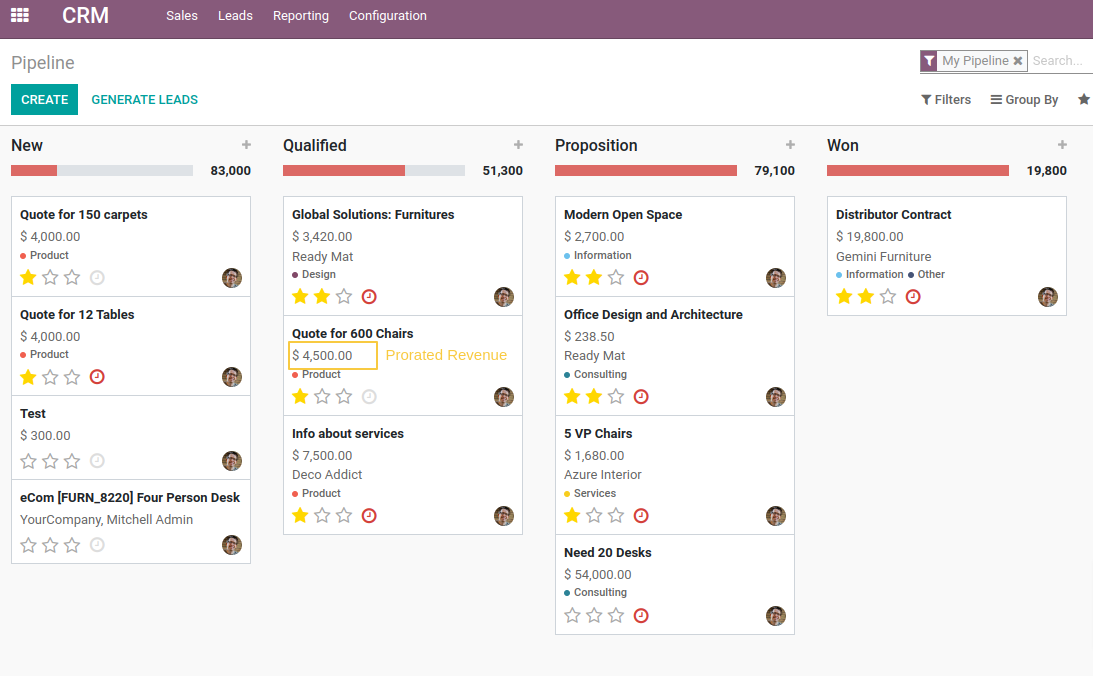
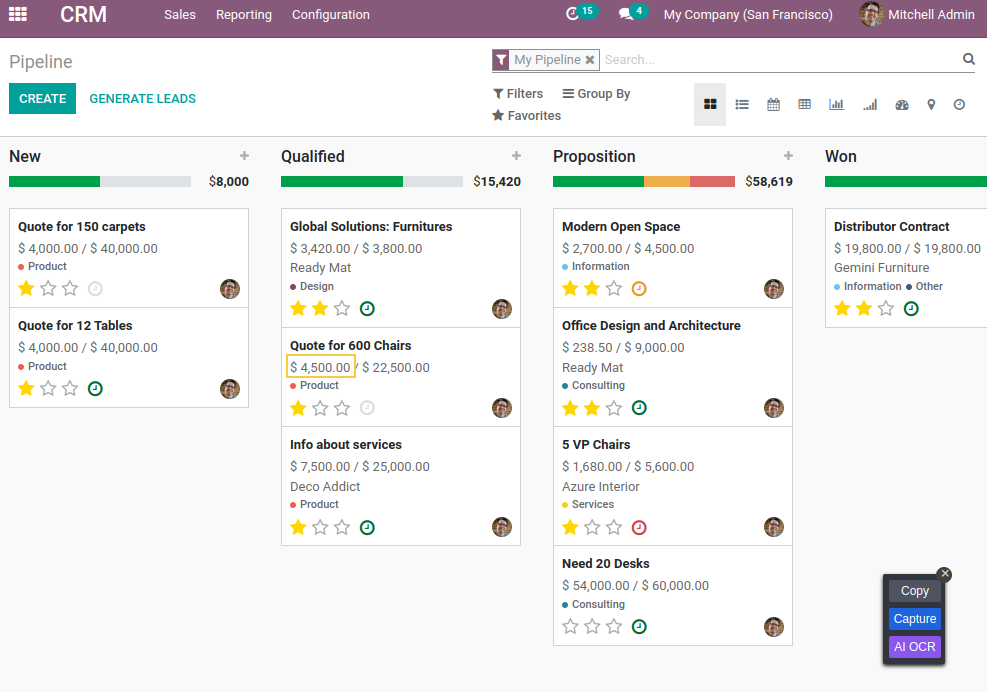
TA#62388 [IMP] crm_kanban_prorated_revenue (#360)

diff --git a/crm_kanban_prorated_revenue/__manifest__.py b/crm_kanban_prorated_revenue/__manifest__.py
@@ -4,7 +4,7 @@
 {
     "name": "CRM Kanban Prorated Revenue",
     "summary": "Display Proreted Revenue In CRM Kanban View",
-    "version": "14.0.1.0.0",
+    "version": "14.0.1.0.1",
     "website": "https://bit.ly/numigi-com",
     "author": "Numigi",
     "maintainer": "Numigi",

diff --git a/crm_kanban_prorated_revenue/README.rst b/crm_kanban_prorated_revenue/README.rst
@@ -1,9 +1,8 @@
 CRM Kanban Prorated Revenue
 ===========================
-This module display the `Prorated Revenue` in CRM Kanban View Instead of the `Expected Revenue`
+This module display the `Prorated Revenue` in CRM Kanban View Instead of the `Expected Revenue`.
 
-The `Prorated Revenue` is equal to `Expected Revenue` * `Probability`
-
+The `Prorated Revenue` is equal to `Expected Revenue` * `Probability`.
 
 In this example, we can see the `Expected Revenue` and `Probability` values in the CRM Form View.
 Then the `Prorated Revenue` displayed in the CRM Kanban View.
@@ -12,6 +11,10 @@ Then the `Prorated Revenue` displayed in the CRM Kanban View.
 
 
 .. image:: static/description/crm_kanban_prorated_revenue.png
+
+Since the version 1.0.1, this module replaces the `Expected Revenue` by the `Prorated Revenue` in the sum of the progress bar.
+
+.. image:: static/description/crm_kanban_progressbar.png
 
 Contributors
 ------------
